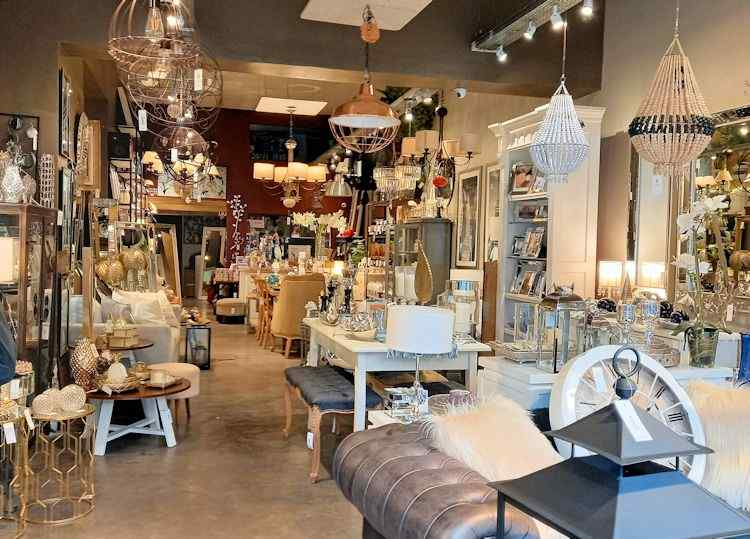
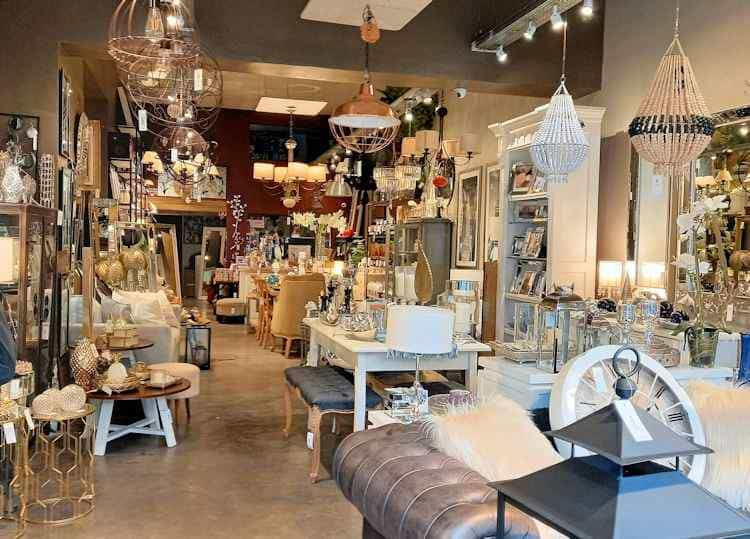
se modificaron errores de responsive, se optimizaron las imagenes y se añadio carrousel a la page nosotros

diff --git a/index.html b/index.html
@@ -2,6 +2,7 @@
 <html lang="en">
 
 <head>
+    <meta name="description" content="">
     <meta charset="UTF-8">
     <meta http-equiv="X-UA-Compatible" content="IE=edge">
     <meta name="viewport" content="width=device-width, initial-scale=1.0">
@@ -16,18 +17,19 @@
     <link rel="preconnect" href="https://fonts.gstatic.com" crossorigin>
     <link href="https://fonts.googleapis.com/css2?family=Prata&display=swap" rel="stylesheet">
 
+
     <title>FauFe Design</title>
 </head>
 
 <body>
     <header class="navbar navbar-expand-lg border-bottom navbar-dark" style="background-color: #020500;">
         <div class="container">
-            <a class="navbar-brand " href="./index.html"><img src="../img/FauFe Design (1).jpg" class="w-25" alt=""></a>
+            <a class="navbar-brand " href="./index.html"><img src="./img/logo.jpg" class="w-25" alt=""></a>
             <button class="navbar-toggler" type="button" data-bs-toggle="collapse" data-bs-target="#navbarNav"
                 aria-controls="navbarNav" aria-expanded="false" aria-label="Toggle navigation">
                 <span class="navbar-toggler-icon"></span>
             </button>
-            <nav class="collapse navbar-collapse justify-content-end" id="navbarNav">
+            <nav class="collapse navbar-collapse fs-5 " id="navbarNav">
                 <ul class="navbar-nav">
                     <li class="nav-item">
                         <a class="nav-link " aria-current="page" href="./pages/sucursales.html">Sucursales</a>
@@ -56,10 +58,56 @@
         <section>
             <div class="row">
                 <div class="text-center">
-                    <img src="./img/Un sitio, todo para tu hogar.jpg" class="w-50" alt="">
+                    <p>Somos una empresa familiar dedicada a la producción de muebles, articulos de bazar y contamos con
+                        los asesores y diseñadores de interiores más profesionales del mercado. Todo este conjunto de
+                        ideas para mejorar es FauFe Design, un lugar exclusivamente pensado para vos y la armonia de tu
+                        hogar, te invitamos a que conozcas nuestros locales.</p>
                 </div>
             </div>
         </section>
+
+
+        <!-- SECCION CARROUSEL -->
+        <section class="container mt-5 mb-5">
+            <div id="carouselExampleCaptions" class="carousel slide" data-bs-ride="false">
+                <div class="carousel-indicators">
+                    <button type="button" data-bs-target="#carouselExampleCaptions" data-bs-slide-to="0" class="active"
+                        aria-current="true" aria-label="Slide 1"></button>
+                    <button type="button" data-bs-target="#carouselExampleCaptions" data-bs-slide-to="1"
+                        aria-label="Slide 2"></button>
+                    <button type="button" data-bs-target="#carouselExampleCaptions" data-bs-slide-to="2"
+                        aria-label="Slide 3"></button>
+                </div>
+                <div class="carousel-inner">
+                    <div class="carousel-item active">
+                        <img src="./img/carrouseldos.png" class="d-block w-100" alt="...">
+                        <div class="carousel-caption d-none d-md-block">
+                        </div>
+                    </div>
+                    <div class="carousel-item">
+                        <img src="./img/carrouseltres.png" class="d-block w-100" alt="...">
+                        <div class="carousel-caption d-none d-md-block">
+                        </div>
+                    </div>
+                    <div class="carousel-item">
+                        <img src="./img/carrouseluno.png" class="d-block w-100" alt="...">
+                        <div class="carousel-caption d-none d-md-block">
+                        </div>
+                    </div>
+                </div>
+                <button class="carousel-control-prev" type="button" data-bs-target="#carouselExampleCaptions"
+                    data-bs-slide="prev">
+                    <span class="carousel-control-prev-icon" aria-hidden="true"></span>
+                    <span class="visually-hidden">Previous</span>
+                </button>
+                <button class="carousel-control-next" type="button" data-bs-target="#carouselExampleCaptions"
+                    data-bs-slide="next">
+                    <span class="carousel-control-next-icon" aria-hidden="true"></span>
+                    <span class="visually-hidden">Next</span>
+                </button>
+            </div>
+        </section>
+        <!-- FIN DE SECCION CARROUSEL -->
 
 
         <!-- SECCION RESEÑAS-GRID -->
@@ -132,7 +180,7 @@
 
 
                         <div class="col-12 col-lg-8 p-2 ">
-                            <article class="card h-100 "style="background-color: #c74f4f;">
+                            <article class="card h-100 " style="background-color: #c74f4f;">
                                 <div class="cuerpo-tarjeta">
                                     <div class="d-flex">
                                         <img src="./img/images/image-kira.jpg" alt=""
@@ -185,47 +233,6 @@
         </section>
         <!-- FIN DE SECCION RESEÑAS-GRID -->
 
-        <!-- SECCION CARROUSEL -->
-        <section class="container mt-5 mb-5">
-            <div id="carouselExampleCaptions" class="carousel slide" data-bs-ride="false">
-                <div class="carousel-indicators">
-                    <button type="button" data-bs-target="#carouselExampleCaptions" data-bs-slide-to="0" class="active"
-                        aria-current="true" aria-label="Slide 1"></button>
-                    <button type="button" data-bs-target="#carouselExampleCaptions" data-bs-slide-to="1"
-                        aria-label="Slide 2"></button>
-                    <button type="button" data-bs-target="#carouselExampleCaptions" data-bs-slide-to="2"
-                        aria-label="Slide 3"></button>
-                </div>
-                <div class="carousel-inner">
-                    <div class="carousel-item active">
-                        <img src="./img/1.png" class="d-block w-100" alt="...">
-                        <div class="carousel-caption d-none d-md-block">
-                        </div>
-                    </div>
-                    <div class="carousel-item">
-                        <img src="./img/2.png" class="d-block w-100" alt="...">
-                        <div class="carousel-caption d-none d-md-block">
-                        </div>
-                    </div>
-                    <div class="carousel-item">
-                        <img src="./img/3.png" class="d-block w-100" alt="...">
-                        <div class="carousel-caption d-none d-md-block">
-                        </div>
-                    </div>
-                </div>
-                <button class="carousel-control-prev" type="button" data-bs-target="#carouselExampleCaptions"
-                    data-bs-slide="prev">
-                    <span class="carousel-control-prev-icon" aria-hidden="true"></span>
-                    <span class="visually-hidden">Previous</span>
-                </button>
-                <button class="carousel-control-next" type="button" data-bs-target="#carouselExampleCaptions"
-                    data-bs-slide="next">
-                    <span class="carousel-control-next-icon" aria-hidden="true"></span>
-                    <span class="visually-hidden">Next</span>
-                </button>
-            </div>
-        </section>
-        <!-- FIN DE SECCION CARROUSEL -->
 
 
     </main>
@@ -235,7 +242,7 @@
         crossorigin="anonymous"></script>
 
     <footer class="">
-        <div>
+        <div >
             <h4>Faufe Design, todo para tu hogar.</h4>
             <ul>
                 <li class="nav-item">

diff --git a/pages/sucursales.html b/pages/sucursales.html
@@ -23,13 +23,12 @@
     <!-- Header -->
     <header class="navbar navbar-expand-lg border-bottom navbar-dark" style="background-color: #0e0501;">
         <div class="container">
-            <a class="navbar-brand " href="../index.html"><img src="../img/FauFe Design (1).jpg" class="w-25"
-                    alt=""></a>
+            <a class="navbar-brand " href="../index.html"><img src="../img/logo.jpg" class="w-25" alt=""></a>
             <button class="navbar-toggler" type="button" data-bs-toggle="collapse" data-bs-target="#navbarNav"
                 aria-controls="navbarNav" aria-expanded="false" aria-label="Toggle navigation">
                 <span class="navbar-toggler-icon"></span>
             </button>
-            <nav class="collapse navbar-collapse justify-content-end" id="navbarNav">
+            <nav class="collapse navbar-collapse fs-5" id="navbarNav">
                 <ul class="navbar-nav">
                     <li class="nav-item">
                         <a class="nav-link " aria-current="page" href="./sucursales.html">Sucursales</a>
@@ -66,10 +65,9 @@
                     </div>
                     <div class="card-body">
                         <h5 class="card-title text-center">Belgrano</h5>
-                        <p class="card-text text-center">This is a wider card with supporting text below as a natural
-                            lead-in to
-                            additional content. This content is a little bit longer.</p>
-                        <p class="card-text"><small class="text-muted">Last updated 3 mins ago</small></p>
+                        <p class="card-text text-center">Aquí encontrarás articulos de primera y segunda categoría y lo
+                            mejor de las 3 sucursales en un solo lugar. Estamos de Lunes a Sabados de 09:00hs a 18:00hs.
+                        </p>
                     </div>
             </section>
 
@@ -80,10 +78,9 @@
                     </div>
                     <div class="card-body">
                         <h5 class="card-title text-center">Villa Crespo</h5>
-                        <p class="card-text text-center">This is a wider card with supporting text below as a natural
-                            lead-in to
-                            additional content. This content is a little bit longer.</p>
-                        <p class="card-text"><small class="text-muted">Last updated 3 mins ago</small></p>
+                        <p class="card-text text-center">En este local encontrarás muebles minimalistas, de diseño y
+                            antiguedades destinado a todo tipo de hogar. Estamos Av. Scalabrini Ortiz 2700 de Lunes a
+                            Viernes de 09:00hs a 18:00hs.</p>
                     </div>
                 </div>
                 <div class="tarjeta card border border-2">
@@ -92,25 +89,19 @@
                     </div>
                     <div class="card-body">
                         <h5 class="card-title text-center">Almagro</h5>
-                        <p class="card-text text-center">This card has supporting text below as a natural lead-in to
-                            additional
-                            content.
+                        <p class="card-text text-center">Nuestra casa central, donde todo comenzó, hoy es nuestro bazar
+                            principal. Estamos en Av. Corrientes 1236 de Lunes a Viernes de 09:00hs a 18:00hs.
                         </p>
-                        <p class="card-text"><small class="text-muted">Last updated 3 mins ago</small></p>
                     </div>
                 </div>
                 <div class="tarjeta card border border-2 ">
                     <div class="m-3">
                         <img src="../img/locales-decoracion-muebles-buenos-aires.jpg" class="card-img-top" alt="...">
                     </div>
-                    <div class= "card-body">
+                    <div class="card-body">
                         <h5 class="card-title text-center">Villa Urquiza</h5>
-                        <p class="card-text text-center">This is a wider card with supporting text below as a natural
-                            lead-in to
-                            additional content. This card has even longer content than the first to show that equal
-                            height
-                            action.</p>
-                        <p class="card-text"><small class="text-muted">Last updated 3 mins ago</small></p>
+                        <p class="card-text text-center">En este local encontrarás un estilo más rústico, con ciertas
+                            antiguedades. Estamos en Av. Triunvirato 3200 de Lunes a Viernes de 09:00hs a 18:00hs.</p>
                     </div>
                 </div>
             </section>

diff --git a/pages/nosotros.html b/pages/nosotros.html
@@ -21,13 +21,13 @@
 
     <header class="navbar navbar-expand-lg border-bottom navbar-dark" style="background-color: #0e0501;">
         <div class="container">
-            <a class="navbar-brand " href="../index.html"><img src="../img/FauFe Design (1).jpg" class="w-25"
+            <a class="navbar-brand " href="../index.html"><img src="../img/logo.jpg" class="w-25"
                     alt=""></a>
             <button class="navbar-toggler" type="button" data-bs-toggle="collapse" data-bs-target="#navbarNav"
                 aria-controls="navbarNav" aria-expanded="false" aria-label="Toggle navigation">
                 <span class="navbar-toggler-icon"></span>
             </button>
-            <nav class="collapse navbar-collapse justify-content-end" id="navbarNav">
+            <nav class="collapse navbar-collapse fs-5" id="navbarNav">
                 <ul class="navbar-nav">
                     <li class="nav-item">
                         <a class="nav-link " aria-current="page" href="./sucursales.html">Sucursales</a>
@@ -70,8 +70,52 @@
                 Hoy como FauFe Design tenemos el agrado de estar cumpliendo 50 años en la industria, buscando realizar
                 productos de calidad y diseño. Brindando toda nuestra experiencia y calidez al servicio de nuestros
                 clientes.</p>
+
+                
+        <section class="container mt-5 mb-5">
+            <div id="carouselExampleCaptions" class="carousel slide" data-bs-ride="false">
+                <div class="carousel-indicators">
+                    <button type="button" data-bs-target="#carouselExampleCaptions" data-bs-slide-to="0" class="active"
+                        aria-current="true" aria-label="Slide 1"></button>
+                    <button type="button" data-bs-target="#carouselExampleCaptions" data-bs-slide-to="1"
+                        aria-label="Slide 2"></button>
+                    <button type="button" data-bs-target="#carouselExampleCaptions" data-bs-slide-to="2"
+                        aria-label="Slide 3"></button>
+                </div>
+                <div class="carousel-inner">
+                    <div class="carousel-item active">
+                        <img src="../img/carrouseltres.png" class="d-block w-100" alt="...">
+                        <div class="carousel-caption d-none d-md-block">
+                        </div>
+                    </div>
+                    <div class="carousel-item">
+                        <img src="../img/carrouseldos.png" class="d-block w-100" alt="...">
+                        <div class="carousel-caption d-none d-md-block">
+                        </div>
+                    </div>
+                    <div class="carousel-item">
+                        <img src="../img/carrouseluno.png" class="d-block w-100" alt="...">
+                        <div class="carousel-caption d-none d-md-block">
+                        </div>
+                    </div>
+                </div>
+                <button class="carousel-control-prev" type="button" data-bs-target="#carouselExampleCaptions"
+                    data-bs-slide="prev">
+                    <span class="carousel-control-prev-icon" aria-hidden="true"></span>
+                    <span class="visually-hidden">Previous</span>
+                </button>
+                <button class="carousel-control-next" type="button" data-bs-target="#carouselExampleCaptions"
+                    data-bs-slide="next">
+                    <span class="carousel-control-next-icon" aria-hidden="true"></span>
+                    <span class="visually-hidden">Next</span>
+                </button>
+            </div>
+        </section>
         </div>
+
     </main>
+
+
     <footer class="container-fluid mt-5">
         <div>
             <h4>Faufe Design, todo para tu hogar.</h4>
@@ -103,6 +147,7 @@
             </ul>
         </div>
     </footer>
+
     <script src="https://cdn.jsdelivr.net/npm/bootstrap@5.2.3/dist/js/bootstrap.bundle.min.js"
         integrity="sha384-kenU1KFdBIe4zVF0s0G1M5b4hcpxyD9F7jL+jjXkk+Q2h455rYXK/7HAuoJl+0I4"
         crossorigin="anonymous"></script>

diff --git a/pages/contacto.html b/pages/contacto.html
@@ -21,13 +21,13 @@
 <body class="body-contacto">
     <header class="navbar navbar-expand-lg border-bottom navbar-dark" style="background-color: #0e0501;">
         <div class="container">
-            <a class="navbar-brand " href="../index.html"><img src="../img/FauFe Design (1).jpg" class="w-25"
+            <a class="navbar-brand " href="../index.html"><img src="../img/logo.jpg" class="w-25"
                     alt=""></a>
             <button class="navbar-toggler" type="button" data-bs-toggle="collapse" data-bs-target="#navbarNav"
                 aria-controls="navbarNav" aria-expanded="false" aria-label="Toggle navigation">
                 <span class="navbar-toggler-icon"></span>
             </button>
-            <nav class="collapse navbar-collapse justify-content-end" id="navbarNav">
+            <nav class="collapse navbar-collapse fs-5" id="navbarNav">
                 <ul class="navbar-nav">
                     <li class="nav-item">
                         <a class="nav-link " aria-current="page" href="./sucursales.html">Sucursales</a>

diff --git a/pages/preguntas-frecuentes.html b/pages/preguntas-frecuentes.html
@@ -22,13 +22,13 @@
 
     <header class="navbar navbar-expand-lg border-bottom navbar-dark" style="background-color: #0e0501;">
         <div class="container">
-            <a class="navbar-brand " href="../index.html"><img src="../img/FauFe Design (1).jpg" class="w-25"
+            <a class="navbar-brand " href="../index.html"><img src="../img/logo.jpg" class="w-25"
                     alt=""></a>
             <button class="navbar-toggler" type="button" data-bs-toggle="collapse" data-bs-target="#navbarNav"
                 aria-controls="navbarNav" aria-expanded="false" aria-label="Toggle navigation">
                 <span class="navbar-toggler-icon"></span>
             </button>
-            <nav class="collapse navbar-collapse justify-content-end" id="navbarNav">
+            <nav class="collapse navbar-collapse fs-5" id="navbarNav">
                 <ul class="navbar-nav">
                     <li class="nav-item">
                         <a class="nav-link " aria-current="page" href="./sucursales.html">Sucursales</a>

diff --git a/css/style.css b/css/style.css
@@ -11,6 +11,11 @@ header {
   margin: 35px;
 }
 
+.card-title {
+  font-family: "Dancing Script", cursive;
+  font-size: 32px;
+}
+
 * {
   margin: 0;
   padding: 0;
@@ -24,6 +29,7 @@ footer {
   background-color: black;
   display: flex;
   justify-content: space-evenly;
+  flex-wrap: wrap;
 }
 
 footer div ul li {

diff --git a/scss/components/_footer.scss b/scss/components/_footer.scss
@@ -10,6 +10,7 @@ footer{
     background-color: black;
     display: flex;
     justify-content: space-evenly;
+    flex-wrap: wrap;
 }
 
 footer div ul li{

diff --git a/scss/components/_tarjeta.scss b/scss/components/_tarjeta.scss
@@ -4,3 +4,8 @@
 .tarjeta {
     margin: 35px;
 }
+
+.card-title {
+    font-family: 'Dancing Script', cursive;
+    font-size: 32px;
+}
